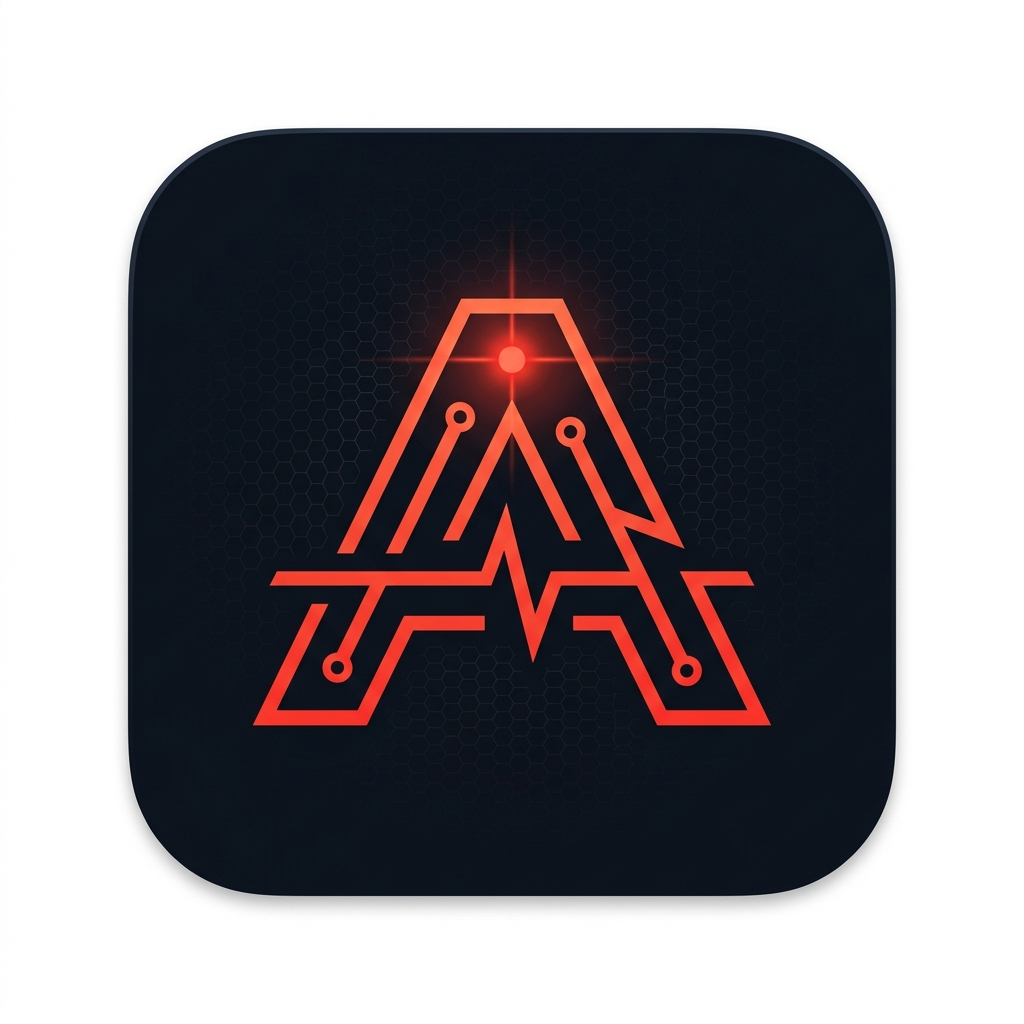
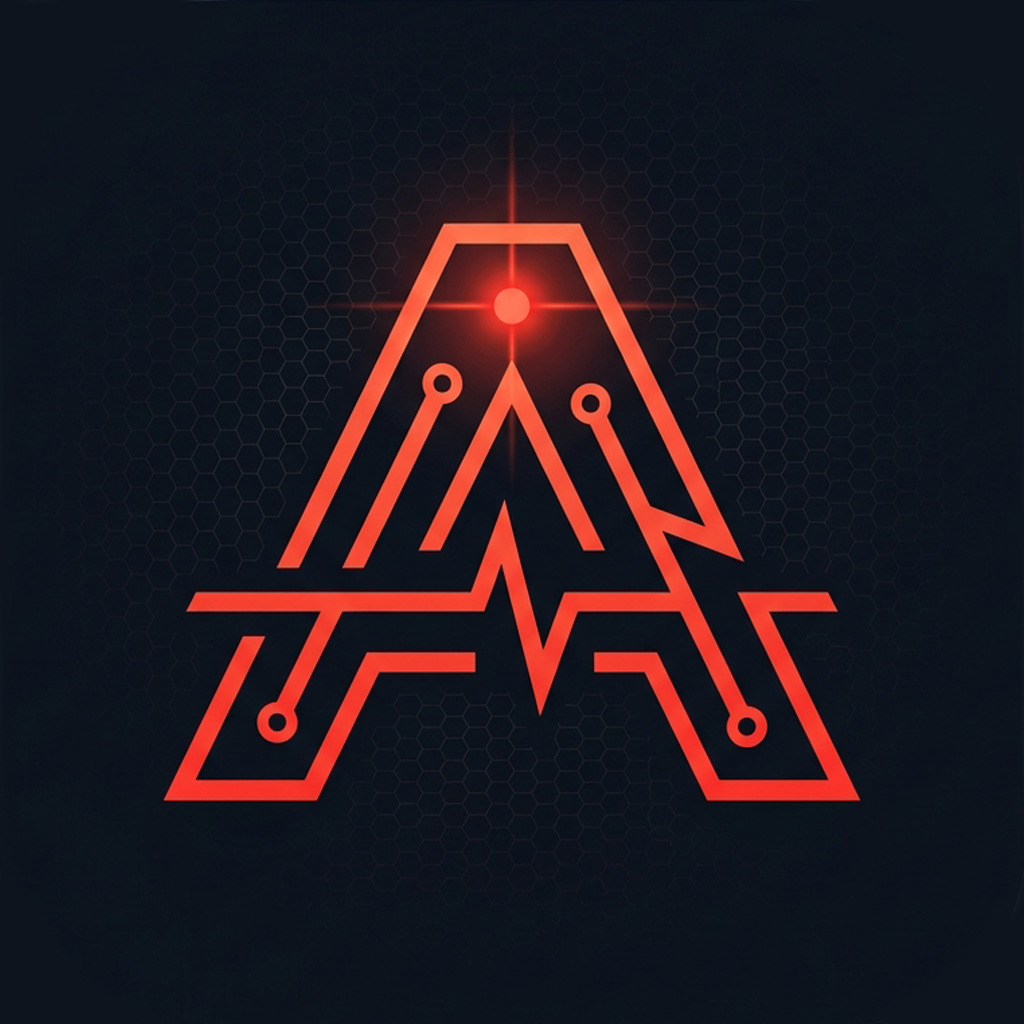
update PWA support

diff --git a/src/aespa/web/sw.js b/src/aespa/web/sw.js
@@ -1,0 +1,84 @@
+const CACHE = "aespa-v1";
+
+// Versioned assets (cache-busted by ?v=... query param) — cache aggressively
+const STATIC_EXTS = [".js", ".css", ".png", ".ico", ".json"];
+
+function isStaticAsset(url) {
+  const u = new URL(url);
+  return STATIC_EXTS.some((ext) => u.pathname.endsWith(ext));
+}
+
+function isApiCall(url) {
+  return new URL(url).pathname.startsWith("/api/");
+}
+
+// Install: pre-cache the shell assets
+self.addEventListener("install", (event) => {
+  self.skipWaiting();
+  event.waitUntil(
+    caches.open(CACHE).then((cache) =>
+      cache.addAll(["/", "/icon.png", "/manifest.json"])
+    )
+  );
+});
+
+// Activate: drop old caches
+self.addEventListener("activate", (event) => {
+  event.waitUntil(
+    caches
+      .keys()
+      .then((keys) =>
+        Promise.all(
+          keys.filter((k) => k !== CACHE).map((k) => caches.delete(k))
+        )
+      )
+      .then(() => self.clients.claim())
+  );
+});
+
+// Fetch strategy:
+//   API calls      → network only (always fresh)
+//   Static assets  → cache first, then network (they have ?v= cache busters)
+//   Navigation     → network first, fall back to cached shell
+self.addEventListener("fetch", (event) => {
+  const { request } = event;
+
+  // Only handle GET requests
+  if (request.method !== "GET") return;
+
+  const url = request.url;
+
+  // API — always go to the network
+  if (isApiCall(url)) return;
+
+  // Versioned static assets — serve from cache if present, else fetch & cache
+  if (isStaticAsset(url)) {
+    event.respondWith(
+      caches.match(request).then(
+        (cached) =>
+          cached ||
+          fetch(request).then((response) => {
+            if (response.ok) {
+              const clone = response.clone();
+              caches.open(CACHE).then((c) => c.put(request, clone));
+            }
+            return response;
+          })
+      )
+    );
+    return;
+  }
+
+  // Navigation / HTML — network first, fall back to cached index
+  event.respondWith(
+    fetch(request)
+      .then((response) => {
+        if (response.ok) {
+          const clone = response.clone();
+          caches.open(CACHE).then((c) => c.put(request, clone));
+        }
+        return response;
+      })
+      .catch(() => caches.match(request).then((r) => r || caches.match("/")))
+  );
+});

diff --git a/src/aespa/web/app.js b/src/aespa/web/app.js
@@ -335,6 +335,23 @@ function App() {
           </div>
           ${!collapsed && html`<div className="logo-sub">AI-Enabled Security Pentesting Agent</div>`}
         </div>
+        <div className="sidebar-meta">
+          <button className="sidebar-toggle" onClick=${()=>setCollapsed(c=>!c)} title=${collapsed?"Expand sidebar":"Collapse sidebar"}>
+            ${collapsed ? html`<${IconChevronRight}/>` : html`<${IconChevronLeft}/>`}
+          </button>
+          ${!collapsed && html`
+            <div style=${{display: "flex", flexDirection: "column", gap: "2px", overflow: "hidden", minWidth: 0, lineHeight: 1.2}}>
+              ${showUsername && username ? html`
+                <span className="sidebar-username" style=${{color: "var(--text-2)", fontWeight: "500", fontSize: "11px", textOverflow: "ellipsis", overflow: "hidden", whiteSpace: "nowrap"}} title=${username}>
+                  ${username}
+                </span>
+                ${appVersion && html`<span style=${{color: "var(--muted)", fontSize: "9.5px"}}>v${appVersion}</span>`}
+              ` : html`
+                ${appVersion && html`<span>v${appVersion}</span>`}
+              `}
+            </div>
+          `}
+        </div>
         <nav className="sidebar-nav">
           ${!collapsed && html`<div className="nav-section-label">Targets</div>`}
           <a href="#/" className=${"nav-item"+(onSites?" active":"")} title="Sites">
@@ -362,24 +379,8 @@ function App() {
               <span className="nav-icon"><${IconBug}/></span>${!collapsed && " Reporting Lab"}
             </a>`}
         </nav>
-        <div className="sidebar-footer">
-          <button className="sidebar-toggle" onClick=${()=>setCollapsed(c=>!c)} title=${collapsed?"Expand sidebar":"Collapse sidebar"}>
-            ${collapsed ? html`<${IconChevronRight}/>` : html`<${IconChevronLeft}/>`}
-          </button>
-          ${!collapsed && html`
-            <div style=${{display: "flex", flexDirection: "column", gap: "2px", overflow: "hidden", minWidth: 0, lineHeight: 1.2}}>
-              ${showUsername && username ? html`
-                <span className="sidebar-username" style=${{color: "var(--text-2)", fontWeight: "500", fontSize: "11px", textOverflow: "ellipsis", overflow: "hidden", whiteSpace: "nowrap"}} title=${username}>
-                  ${username}
-                </span>
-                ${appVersion && html`<span style=${{color: "var(--muted)", fontSize: "9.5px"}}>v${appVersion}</span>`}
-              ` : html`
-                ${appVersion && html`<span>v${appVersion}</span>`}
-              `}
-            </div>
-          `}
-        </div>
       </aside>
+
 
       <div className="main">
         ${route.name==="list"        && html`<${SitesList}/>`}

diff --git a/src/aespa/web/styles.css b/src/aespa/web/styles.css
@@ -214,6 +214,19 @@ a:hover { color: var(--accent-hover); }
   justify-content: center;
 }
 
+.sidebar-meta {
+  padding: 8px 12px;
+  border-bottom: 1px solid var(--border);
+  font-size: 11px;
+  color: var(--muted);
+  display: flex;
+  align-items: center;
+  gap: 8px;
+}
+.sidebar--collapsed .sidebar-meta {
+  justify-content: center;
+}
+
 /* ── Main content area ──────────────────────────────────────── */
 
 .main {

diff --git a/src/aespa/web/index.html b/src/aespa/web/index.html
@@ -4,6 +4,8 @@
     <meta charset="utf-8" />
     <meta name="viewport" content="width=device-width, initial-scale=1" />
     <title>AESPA</title>
+    <meta name="theme-color" content="#0b0d12" />
+    <link rel="manifest" href="/manifest.json" />
     <link rel="icon" type="image/png" href="/icon.png" />
     <link rel="apple-touch-icon" href="/icon.png" />
     <link rel="stylesheet" href="/styles.css?v=__AESPA_ASSET_VERSION__" />
@@ -21,5 +23,12 @@
   <body>
     <div id="root"></div>
     <script type="module" src="/app.js?v=__AESPA_ASSET_VERSION__"></script>
+    <script>
+      if ('serviceWorker' in navigator) {
+        window.addEventListener('load', () => {
+          navigator.serviceWorker.register('/sw.js');
+        });
+      }
+    </script>
   </body>
 </html>

diff --git a/src/aespa/main.py b/src/aespa/main.py
@@ -110,7 +110,7 @@ def create_app(settings: Settings | None = None) -> FastAPI:
         @app.middleware("http")
         async def _no_cache_web_assets(request, call_next):
             response = await call_next(request)
-            if request.url.path in {"/", "/index.html", "/app.js", "/styles.css"}:
+            if request.url.path in {"/", "/index.html", "/app.js", "/styles.css", "/sw.js", "/manifest.json"}:
                 response.headers["Cache-Control"] = "no-store, max-age=0"
                 response.headers["Pragma"] = "no-cache"
             return response